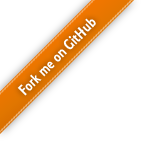
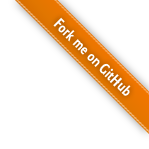
24

diff --git a/index.html b/index.html
@@ -4,11 +4,12 @@
 	<meta charset="UTF-8">
 	<meta name="viewport" content="width=device-width, initial-scale=1.0, user-scalable=no" />
 	<title>张兵军个人网站</title>
-<link rel="icon" href="favicon(2).ico" type="image/x-icon" />
+<link rel="icon" href="favicon.ico" type="image/x-icon" />
 <link href="css/myfontFace.css" rel="stylesheet" />
 <link href="css/index.css" rel="stylesheet" />
 </head>
 <body class="loading screen home">
+	<a href="https://github.com/rainzl/rainzl.github.io" target="_blank" class="gitLink"></a>
 	<div id="bg"></div>
 	<!--位置、背景均可变的logo-->
 		<canvas id="logo" width="10" height="10"></canvas>

diff --git a/css/index.css b/css/index.css
@@ -124,6 +124,16 @@ body.contact #logo {
 	background-color: #1e1e1e;
 	border: 1px solid #1e1e1e;
 }
+.gitLink {
+	position: absolute;
+	top: 0;
+	right: 0;
+	width: 149px;
+	height: 149px;
+	background: url(../img/bg/forkme.png);
+	z-index: 105;
+	cursor: pointer;
+}
 #menu {
 	position: absolute;
 	top: 0;
